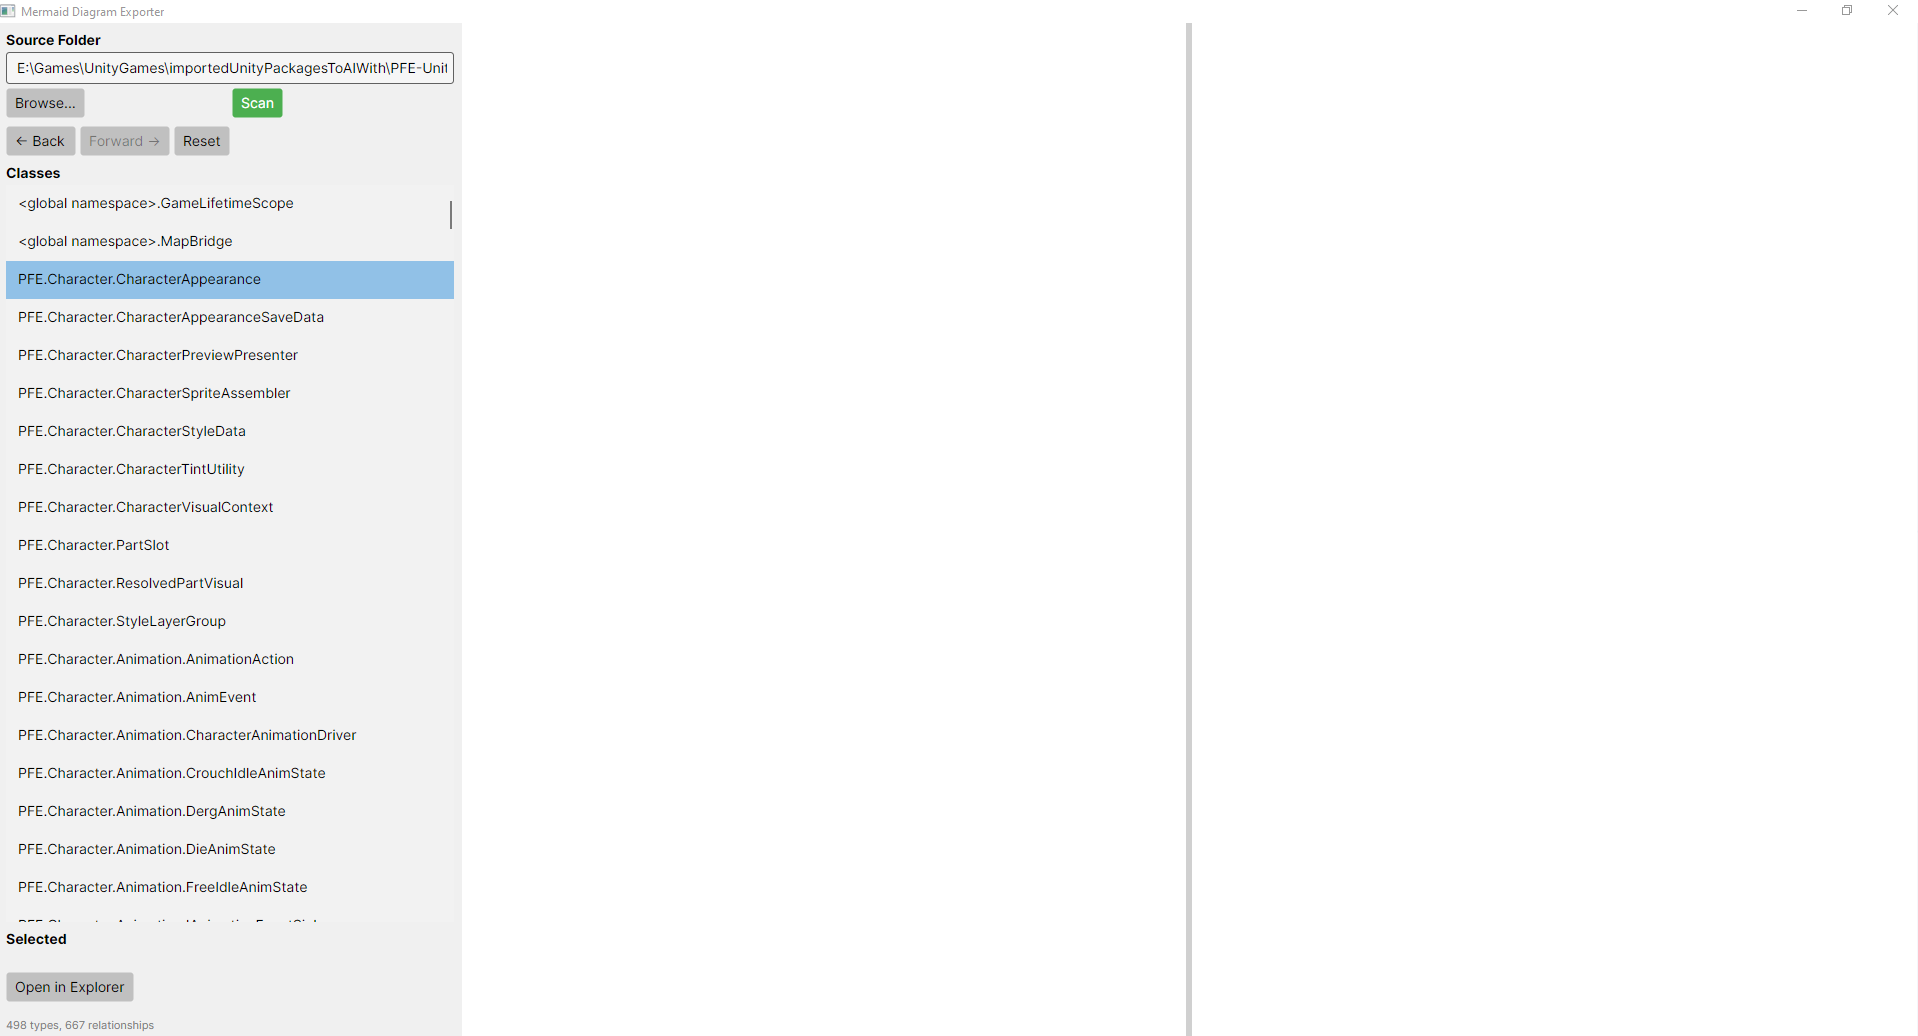
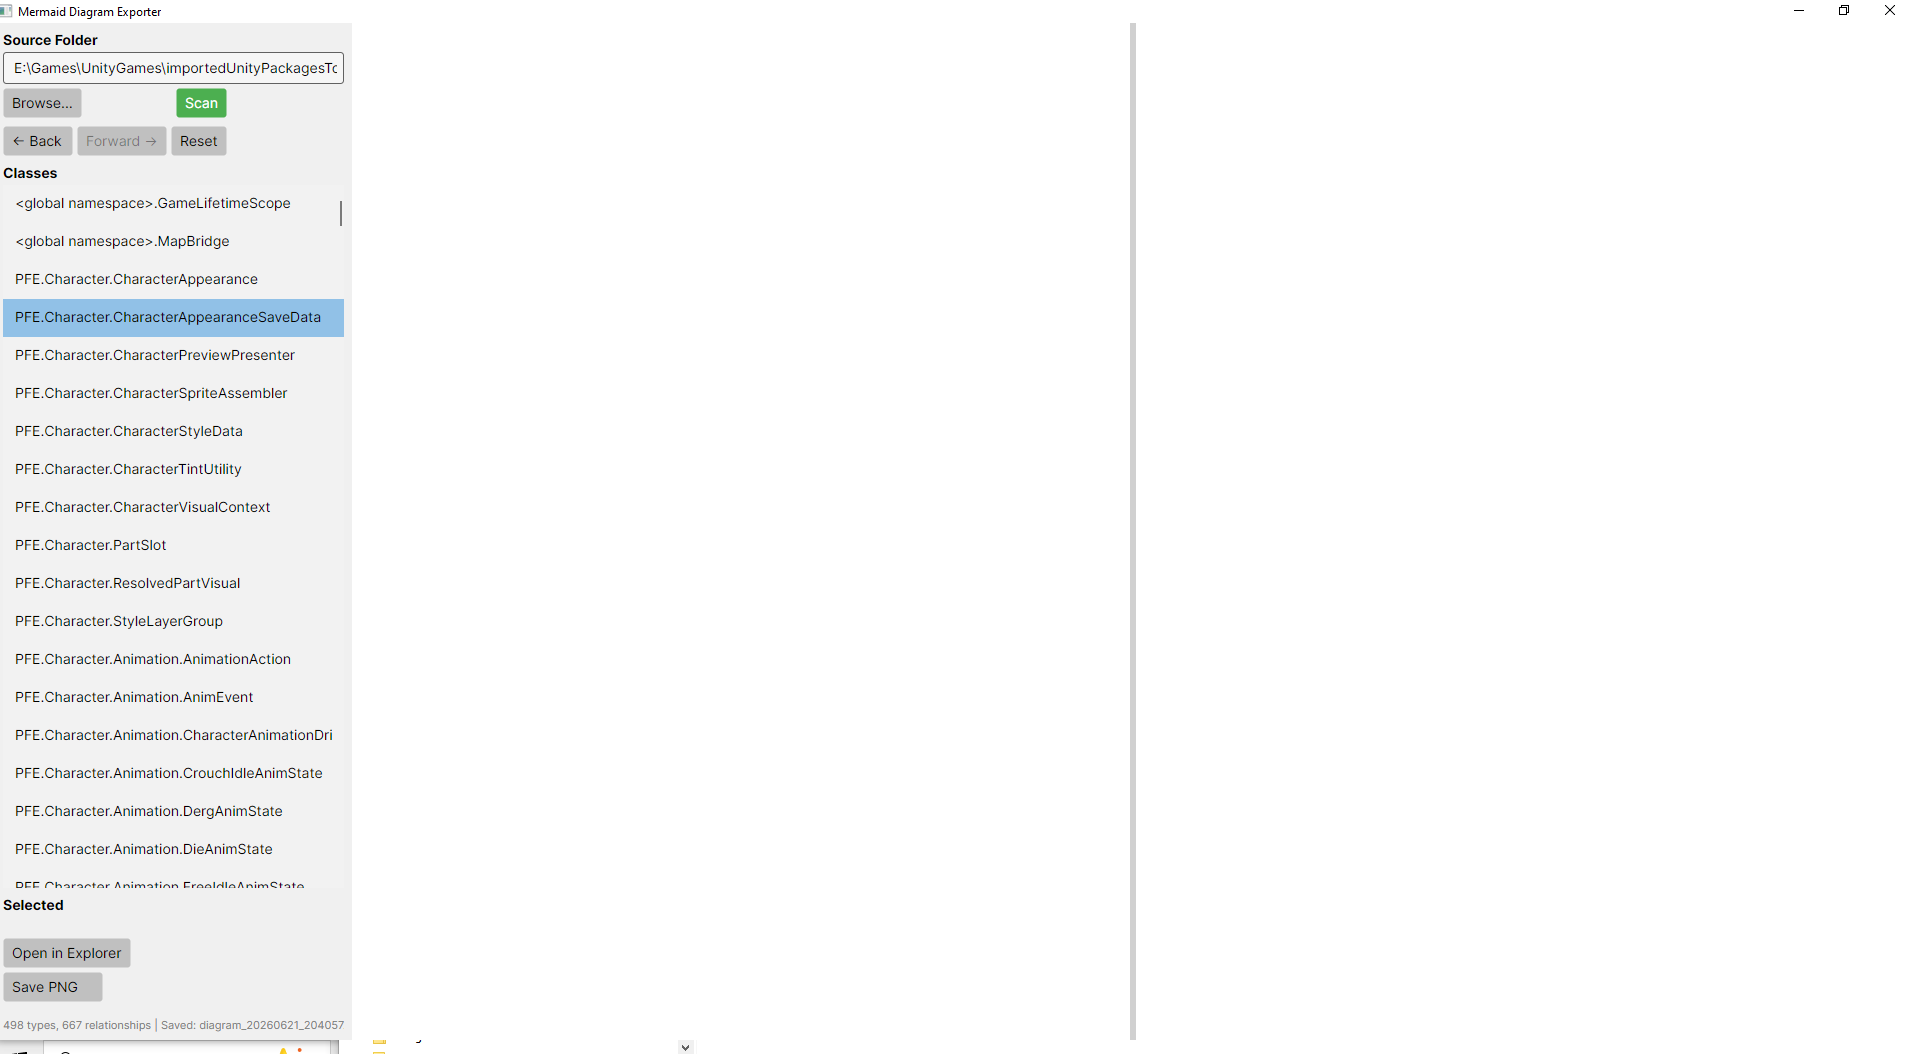
fix: swap splitter and canvas columns so diagram fills available space
Column definitions were 280,*,1 with splitter in col 1 and canvas in col 2.
The splitter was eating the star-sized space, squeezing the canvas into 1px.
Changed to 280,1,* so splitter is in the 1px column and canvas gets the star.

Changed region(s): [[0.0, 0.0, 0.2471, 1.0], [0.5869, 0.0309, 0.6487, 1.0]]

diff --git a/src/MermaidDiagramExporter.Gui/GraphCanvas.cs b/src/MermaidDiagramExporter.Gui/GraphCanvas.cs
@@ -15,7 +15,7 @@ namespace MermaidDiagramExporter.Gui;
 
 /// <summary>
 /// High-performance SkiaSharp graph canvas with zoom, pan, and hit testing.
-/// Renders to SKBitmap and presents via IImage for Avalonia compositing.
+/// Uses ICustomDrawOperation for direct GPU-accelerated rendering.
 /// </summary>
 public class GraphCanvas : Control
 {
@@ -29,9 +29,8 @@ public class GraphCanvas : Control
     private float _lastMouseY;
     private GraphNode? _hoveredNode;
     private GraphNode? _selectedNode;
-    private SKBitmap? _bitmap;
     private bool _needsRender = true;
-    private bool _renderScheduled;
+    private WriteableBitmap? _writeableBitmap;
 
     // Colors (dark theme matching Unity)
     private static readonly SKColor ColorBg = new(0x1A, 0x1E, 0x24);
@@ -58,9 +57,13 @@ public class GraphCanvas : Control
     private const float NodeMemberHeight = 16;
     private const float NamespacePadding = 24;
     private const float NamespaceTitleHeight = 24;
-    private const float ArrowSize = 8;
 
     public event Action<GraphNode?>? SelectionChanged;
+
+    public GraphCanvas()
+    {
+        // Don't set Background here - Control doesn't have it in all versions
+    }
 
     public GraphNode? SelectedNode => _selectedNode;
 
@@ -71,39 +74,39 @@ public class GraphCanvas : Control
         _selectedNode = null;
         _hoveredNode = null;
         FitToScreen();
-        ScheduleRender();
+        Invalidate();
     }
 
     public void WaitForRender()
     {
-        // Force render immediately if not done yet
-        if (_bitmap == null || _needsRender)
+        // If the control has been sized, ensure the bitmap is rendered
+        if (_writeableBitmap == null && Bounds.Width > 1 && Bounds.Height > 1)
         {
-            int w = (int)Math.Max(1, Bounds.Width);
-            int h = (int)Math.Max(1, Bounds.Height);
-            if (w <= 1 || h <= 1)
-            {
-                // Control not yet sized — render at a default size
-                w = 1920;
-                h = 1080;
-            }
-
-            // Recalculate layout for this size
-            RecalculateLayout(w, h);
-
-            _bitmap?.Dispose();
-            _bitmap = new SKBitmap(w, h, SKColorType.Bgra8888, SKAlphaType.Premul);
-            _needsRender = false;
-            var canvas = new SKCanvas(_bitmap);
-            canvas.Clear(SKColor.Parse("#1A1E24"));
-            canvas.Save();
-            canvas.Translate(_panX, _panY);
-            canvas.Scale(_zoom);
-            DrawNamespaceGroups(canvas);
-            DrawEdges(canvas);
-            DrawNodes(canvas);
-            canvas.Restore();
+            RenderNow();
         }
+    }
+
+    public void SaveToPng(string path)
+    {
+        int w = (int)Math.Max(1, Bounds.Width);
+        int h = (int)Math.Max(1, Bounds.Height);
+        if (w <= 1 || h <= 1) { w = 1920; h = 1080; }
+        RecalculateLayout(w, h);
+
+        using var bitmap = new SKBitmap(w, h, SKColorType.Bgra8888, SKAlphaType.Premul);
+        using var canvas = new SKCanvas(bitmap);
+        canvas.Clear(SKColor.Parse("#1A1E24"));
+        canvas.Save();
+        canvas.Translate(_panX, _panY);
+        canvas.Scale(_zoom);
+        DrawNamespaceGroups(canvas);
+        DrawEdges(canvas);
+        DrawNodes(canvas);
+        canvas.Restore();
+
+        using var data = bitmap.Encode(SKEncodedImageFormat.Png, 100);
+        using var stream = File.Create(path);
+        data.SaveTo(stream);
     }
 
     private void RecalculateLayout(int viewW, int viewH)
@@ -132,79 +135,11 @@ public class GraphCanvas : Control
         _panY = (viewH - graphH * _zoom) / 2 - minY * _zoom + 50 * _zoom;
     }
 
-    private void ScheduleRender()
-    {
-        if (_renderScheduled) return;
-        _renderScheduled = true;
-        Dispatcher.UIThread.Post(() =>
-        {
-            _renderScheduled = false;
-            RenderNow();
-        }, DispatcherPriority.Render);
-    }
-
-    public void RenderNow()
-    {
-        int w = (int)Math.Max(1, Bounds.Width);
-        int h = (int)Math.Max(1, Bounds.Height);
-
-        if (w <= 1 || h <= 1) return;
-
-        _bitmap?.Dispose();
-        _bitmap = new SKBitmap(w, h, SKColorType.Bgra8888, SKAlphaType.Premul);
-        _needsRender = false;
-
-        var canvas = new SKCanvas(_bitmap);
-        canvas.Clear(SKColor.Parse("#1A1E24"));
-
-        canvas.Save();
-        canvas.Translate(_panX, _panY);
-        canvas.Scale(_zoom);
-
-        DrawNamespaceGroups(canvas);
-        DrawEdges(canvas);
-        DrawNodes(canvas);
-
-        canvas.Restore();
-
-        InvalidateVisual();
-    }
-
-    public void SaveToPng(string path)
-    {
-        if (_bitmap == null) return;
-        using var data = _bitmap.Encode(SKEncodedImageFormat.Png, 100);
-        using var stream = File.Create(path);
-        data.SaveTo(stream);
-    }
-
     public void FitToScreen()
     {
         if (_nodes.Count == 0) return;
-
-        float minX = float.MaxValue, minY = float.MaxValue;
-        float maxX = float.MinValue, maxY = float.MinValue;
-        foreach (var node in _nodes)
-        {
-            minX = Math.Min(minX, node.X);
-            minY = Math.Min(minY, node.Y);
-            maxX = Math.Max(maxX, node.X + node.Width);
-            maxY = Math.Max(maxY, node.Y + node.Height);
-        }
-
-        float graphW = maxX - minX + 100;
-        float graphH = maxY - minY + 100;
-        float viewW = (float)Bounds.Width;
-        float viewH = (float)Bounds.Height;
-
-        if (viewW <= 0 || viewH <= 0 || graphW <= 0 || graphH <= 0) { _needsRender = true; return; }
-
-        float zoomX = viewW / graphW;
-        float zoomY = viewH / graphH;
-        _zoom = Math.Min(zoomX, zoomY) * 0.80f;
-        _panX = (viewW - graphW * _zoom) / 2 - minX * _zoom + 50 * _zoom;
-        _panY = (viewH - graphH * _zoom) / 2 - minY * _zoom + 50 * _zoom;
-        ScheduleRender();
+        RecalculateLayout((int)Math.Max(1, Bounds.Width), (int)Math.Max(1, Bounds.Height));
+        Invalidate();
     }
 
     public void ZoomBy(float factor)
@@ -217,7 +152,46 @@ public class GraphCanvas : Control
         _panX = cx - worldX * newZoom;
         _panY = cy - worldY * newZoom;
         _zoom = newZoom;
-        ScheduleRender();
+        Invalidate();
+    }
+
+    private void Invalidate()
+    {
+        _needsRender = true;
+        InvalidateVisual();
+    }
+
+    private void RenderNow()
+    {
+        int w = (int)Math.Max(1, Bounds.Width);
+        int h = (int)Math.Max(1, Bounds.Height);
+        if (w <= 1 || h <= 1) return;
+
+        _needsRender = false;
+
+        // Recalculate layout for current size
+        RecalculateLayout(w, h);
+
+        _writeableBitmap?.Dispose();
+        _writeableBitmap = new WriteableBitmap(
+            new PixelSize(w, h), new Vector(96, 96),
+            PixelFormat.Bgra8888, AlphaFormat.Premul);
+
+        using var framebuffer = _writeableBitmap.Lock();
+        var info = new SKImageInfo(w, h, SKColorType.Bgra8888, SKAlphaType.Premul);
+        using var surface = SKSurface.Create(info, framebuffer.Address, framebuffer.RowBytes);
+        var canvas = surface.Canvas;
+
+        canvas.Clear(SKColor.Parse("#1A1E24"));
+        canvas.Save();
+        canvas.Translate(_panX, _panY);
+        canvas.Scale(_zoom);
+        DrawNamespaceGroups(canvas);
+        DrawEdges(canvas);
+        DrawNodes(canvas);
+        canvas.Restore();
+        canvas.Flush();
+        surface.Flush();
     }
 
     public override void Render(DrawingContext context)
@@ -226,20 +200,16 @@ public class GraphCanvas : Control
 
         int w = (int)Math.Max(1, Bounds.Width);
         int h = (int)Math.Max(1, Bounds.Height);
+        if (w <= 1 || h <= 1) return;
 
-        // If size changed, re-render
-        if (_bitmap == null || _bitmap.Width != w || _bitmap.Height != h)
-        {
-            RenderNow();
-        }
+        // Render to WriteableBitmap and present it
+        RenderNow();
 
-        // Draw the pre-rendered bitmap
-        if (_bitmap != null)
+        if (_writeableBitmap != null)
         {
-            using var data = _bitmap.Encode(SKEncodedImageFormat.Png, 100);
-            using var stream = data.AsStream();
-            var avaloniaBitmap = new Avalonia.Media.Imaging.Bitmap(stream);
-            context.DrawImage(avaloniaBitmap, new Rect(0, 0, w, h), new Rect(0, 0, w, h));
+            var srcRect = new Rect(0, 0, _writeableBitmap.PixelSize.Width, _writeableBitmap.PixelSize.Height);
+            var destRect = new Rect(0, 0, w, h);
+            context.DrawImage(_writeableBitmap, srcRect, destRect);
         }
     }
 
@@ -296,7 +266,6 @@ public class GraphCanvas : Control
             SKColor edgeColor = edge.IsStrongRelation ? ColorEdgeInheritance : ColorEdgeAssociation;
             float strokeWidth = edge.IsStrongRelation ? 2.0f : 1.2f;
 
-            // Highlight edges connected to selected node
             if (_selectedNode != null && (edge.FromNode.Id == _selectedNode.Id || edge.ToNode.Id == _selectedNode.Id))
             {
                 edgeColor = edge.IsStrongRelation ? ColorEdgeInheritance : ColorEdgeImplements;
@@ -323,7 +292,6 @@ public class GraphCanvas : Control
                 toX, toY);
             canvas.DrawPath(path, paint);
 
-            // Arrowhead
             DrawArrowhead(canvas, toX, toY, edgeColor);
         }
     }
@@ -348,23 +316,19 @@ public class GraphCanvas : Control
         {
             float x = node.X, y = node.Y, w = node.Width, h = node.Height;
 
-            // Node background
             using var fillPaint = new SKPaint { Color = ColorNodeFill, Style = SKPaintStyle.Fill, IsAntialias = true };
             canvas.DrawRoundRect(x, y, w, h, 6, 6, fillPaint);
 
-            // Node border
             var strokeColor = node == _selectedNode ? ColorNodeStrokeSelected
                            : node == _hoveredNode ? ColorNodeStrokeHover
                            : ColorNodeStroke;
             using var strokePaint = new SKPaint { Color = strokeColor, Style = SKPaintStyle.Stroke, StrokeWidth = node == _selectedNode ? 3 : 1.5f, IsAntialias = true };
             canvas.DrawRoundRect(x, y, w, h, 6, 6, strokePaint);
 
-            // Header background
             using var headerPaint = new SKPaint { Color = strokeColor.WithAlpha(40), Style = SKPaintStyle.Fill, IsAntialias = true };
             canvas.DrawRoundRect(x, y, w, NodeHeaderHeight, 6, 6, headerPaint);
             canvas.DrawRect(x, y + NodeHeaderHeight - 4, w, 4, headerPaint);
 
-            // Badge
             string? badge = GetBadgeText(node);
             if (badge != null)
             {
@@ -378,11 +342,9 @@ public class GraphCanvas : Control
                 canvas.DrawText(badge, badgeX + 5, badgeY + 12, badgeTextPaint);
             }
 
-            // Node name
             using var namePaint = new SKPaint { Color = ColorText, IsAntialias = true, TextSize = 12 };
             canvas.DrawText(node.DisplayName, x + NodePaddingX, y + NodeHeaderHeight - 8, namePaint);
 
-            // Members
             using var memberPaint = new SKPaint { Color = ColorTextMuted, IsAntialias = true, TextSize = 10 };
             float memberY = y + NodeHeaderHeight + 14;
             int count = 0;
@@ -437,7 +399,7 @@ public class GraphCanvas : Control
         _panX = (float)cursorPos.X - worldX * newZoom;
         _panY = (float)cursorPos.Y - worldY * newZoom;
         _zoom = newZoom;
-        ScheduleRender();
+        Invalidate();
     }
 
     protected override void OnPointerPressed(PointerPressedEventArgs e)
@@ -462,7 +424,7 @@ public class GraphCanvas : Control
         {
             _selectedNode = hit;
             SelectionChanged?.Invoke(hit);
-            ScheduleRender();
+            Invalidate();
         }
     }
 
@@ -479,7 +441,7 @@ public class GraphCanvas : Control
             _panY += dy;
             _lastMouseX = (float)pos.X;
             _lastMouseY = (float)pos.Y;
-            ScheduleRender();
+            Invalidate();
             return;
         }
 
@@ -488,7 +450,7 @@ public class GraphCanvas : Control
         if (hovered != _hoveredNode)
         {
             _hoveredNode = hovered;
-            ScheduleRender();
+            Invalidate();
         }
     }
 

diff --git a/src/MermaidDiagramExporter.Gui/Layout/LayeredLayoutEngine.cs b/src/MermaidDiagramExporter.Gui/Layout/LayeredLayoutEngine.cs
@@ -220,8 +220,8 @@ internal sealed class LayeredLayoutEngine
     {
         var nodes = cluster.NodeIds
             .Select(id => nodeById.TryGetValue(id, out var n) ? n : null)
-            .Where(n => n != null)
-            .ToList()!;
+            .OfType<LayoutNode>()
+            .ToList();
 
         var localRanks = AssignLocalNodeRanks(nodes, graph);
         var orderedNodes = nodes